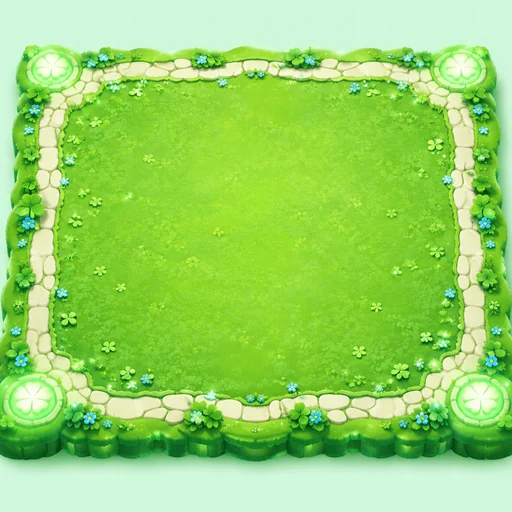
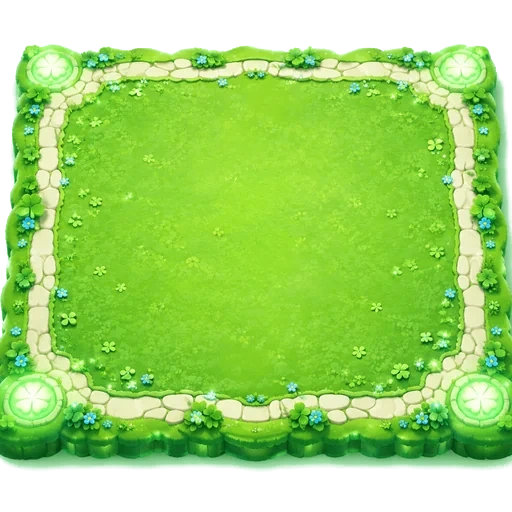
fix(night-raid): make farm plots true-alpha cutouts

Changed region(s): [[0.0, 0.0, 1.0, 0.5625], [0.0, 0.875, 1.0, 1.0], [0.0, 0.625, 0.0312, 0.6562]]

diff --git a/tests/drag-asset-alpha.test.js b/tests/drag-asset-alpha.test.js
@@ -1,0 +1,24 @@
+// Dragged artwork sits over one shared meadow. A baked rectangular backdrop
+// creates a visibly different patch of grass and must never ship.
+const { suite, test, assert } = require('./harness');
+const fs = require('fs');
+const path = require('path');
+
+const root = path.join(__dirname, '..');
+const plots = ['stone', 'hedge', 'clover'];
+
+suite('draggable artwork uses real transparency', () => {
+    for (const style of plots) {
+        test(`${style} farm plot contains a WebP alpha chunk`, () => {
+            const bytes = fs.readFileSync(path.join(root, 'img', 'farm', `farm-plot-${style}.webp`));
+            assert.truthy(bytes.includes(Buffer.from('ALPH')),
+                `${style} plot has an opaque rectangular background instead of true alpha`);
+        });
+    }
+
+    test('the project rule forbids baked ground behind every drag asset', () => {
+        const instructions = fs.readFileSync(path.join(root, 'AGENTS.md'), 'utf8');
+        assert.truthy(instructions.includes('Drag/drop artwork must use true alpha'));
+        assert.truthy(instructions.includes('Never bake a rectangular lawn'));
+    });
+});

diff --git a/scripts/extract-drag-asset-alpha.py b/scripts/extract-drag-asset-alpha.py
@@ -1,0 +1,109 @@
+#!/usr/bin/env python3
+"""Remove a baked flat backdrop from draggable game artwork.
+
+The source artwork must have a mostly uniform colour touching the canvas edge.
+Only pixels connected to that outer edge are removed, so similarly coloured
+details enclosed by the object are preserved.  The result is saved as a WebP
+with a real alpha channel; a fake checkerboard is never an acceptable output.
+"""
+import argparse
+import math
+from collections import deque
+from pathlib import Path
+
+from PIL import Image
+
+
+def median(values):
+    values = sorted(values)
+    return values[len(values) // 2]
+
+
+def background_colour(image):
+    """Estimate the backdrop from small patches in all four corners."""
+    w, h = image.size
+    inset = max(4, min(w, h) // 32)
+    samples = []
+    for y0 in (0, h - inset):
+        for x0 in (0, w - inset):
+            for y in range(y0, y0 + inset):
+                for x in range(x0, x0 + inset):
+                    samples.append(image.getpixel((x, y))[:3])
+    return tuple(median([pixel[channel] for pixel in samples]) for channel in range(3))
+
+
+def distance(pixel, background):
+    return math.sqrt(sum((pixel[channel] - background[channel]) ** 2 for channel in range(3)))
+
+
+def cut_out(image):
+    image = image.convert("RGBA")
+    w, h = image.size
+    bg = background_colour(image)
+    reachable = bytearray(w * h)
+    queue = deque()
+
+    def enqueue(x, y):
+        index = y * w + x
+        if reachable[index] or distance(image.getpixel((x, y)), bg) > 72:
+            return
+        reachable[index] = 1
+        queue.append((x, y))
+
+    for x in range(w):
+        enqueue(x, 0)
+        enqueue(x, h - 1)
+    for y in range(h):
+        enqueue(0, y)
+        enqueue(w - 1, y)
+
+    while queue:
+        x, y = queue.popleft()
+        if x:
+            enqueue(x - 1, y)
+        if x + 1 < w:
+            enqueue(x + 1, y)
+        if y:
+            enqueue(x, y - 1)
+        if y + 1 < h:
+            enqueue(x, y + 1)
+
+    pixels = list(image.getdata())
+    for index, is_background in enumerate(reachable):
+        if not is_background:
+            continue
+        d = distance(pixels[index], bg)
+        # Fully remove the flat backdrop and retain a short feathered edge for
+        # artwork antialiasing and natural shadows.
+        alpha = 0 if d <= 24 else round(255 * min(1, (d - 24) / 48))
+        r, g, b, old_alpha = pixels[index]
+        pixels[index] = (r, g, b, min(old_alpha, alpha))
+    image.putdata(pixels)
+    return image
+
+
+def main():
+    parser = argparse.ArgumentParser(description=__doc__)
+    parser.add_argument("images", nargs="+", type=Path)
+    args = parser.parse_args()
+
+    for path in args.images:
+        with Image.open(path) as source:
+            rgba = source.convert("RGBA")
+            alpha = rgba.getchannel("A")
+            corners = [alpha.getpixel((0, 0)), alpha.getpixel((rgba.width - 1, 0)),
+                       alpha.getpixel((0, rgba.height - 1)), alpha.getpixel((rgba.width - 1, rgba.height - 1))]
+            if alpha.getextrema()[0] == 0 and max(corners) == 0:
+                print(f"already transparent: {path}")
+                continue
+            result = cut_out(rgba)
+        result.save(path, "WEBP", quality=92, method=6, exact=True)
+        check = Image.open(path).convert("RGBA").getchannel("A")
+        if check.getextrema() != (0, 255) or any(check.getpixel(point) for point in (
+                (0, 0), (result.width - 1, 0), (0, result.height - 1), (result.width - 1, result.height - 1))):
+            raise RuntimeError(f"alpha validation failed: {path}")
+        print(f"true-alpha cutout: {path}")
+
+
+if __name__ == "__main__":
+    main()

diff --git a/docs/decisions/2026-09-05-unified-castle-farm-builder-decision.md b/docs/decisions/2026-09-05-unified-castle-farm-builder-decision.md
@@ -17,5 +17,6 @@ Every visible cell carries its zone id. Shop drag/drop, tap placement, harvestin
 - Existing saves without farm coordinates receive stable default positions.
 - At most three farm plots remain allowed.
 - Defenses are valid only on the castle board; crops and farm decorations work on both castle and farm boards.
+- Every draggable or placeable visual is a true-alpha cutout. Pixels outside the object's silhouette must be transparent: never bake a rectangular lawn, background colour, or checkerboard into an asset. The shared meadow underneath supplies all surrounding ground colour. Validate the alpha channel and transparent canvas corners before registering new artwork.
 - Touch controls remain at least 44px and keyboard-accessible.
 - The server normalizes plot coordinates before persistence.

diff --git a/AGENTS.md b/AGENTS.md
@@ -700,7 +700,8 @@ npm install
 4. **Review before merge** - Always use `@code-reviewer`
 5. **Commit atomically** - One logical change per commit
 6. **Document decisions** - Use `@brainstormer` for major choices
+7. **Drag/drop artwork must use true alpha** - Every draggable or placeable asset must have transparent pixels outside its silhouette. Never bake a rectangular lawn, solid background, or fake checkerboard into the image; the map underneath owns the surrounding ground colour. Validate the alpha channel and transparent corners before adding the asset to a registry.
 
 ---
 
-*Last updated: 2026-01-11*
+*Last updated: 2026-09-05*
